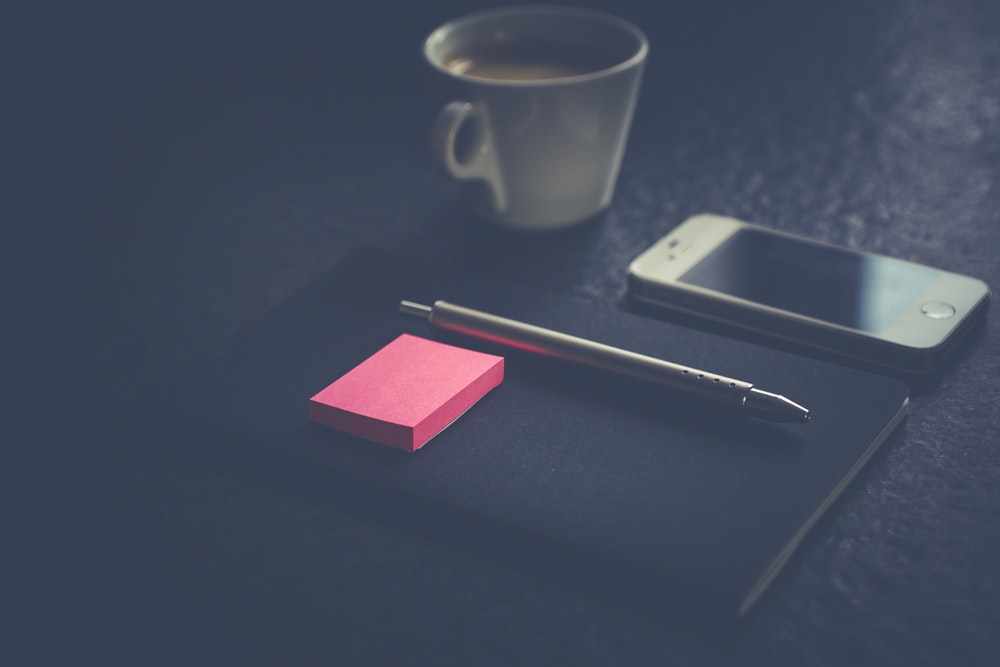
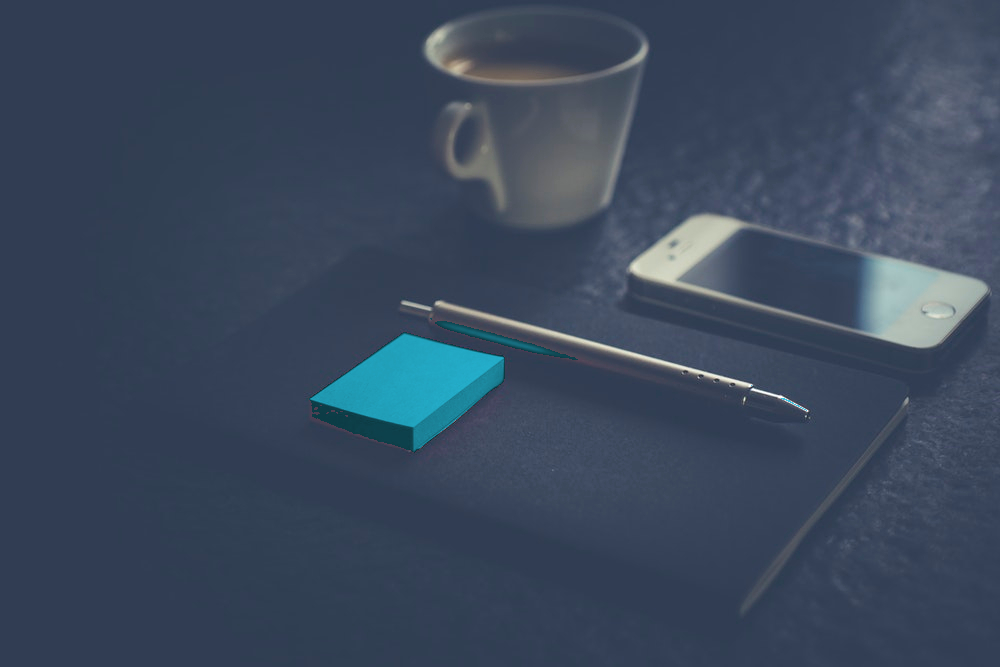
edit slider and navbar

Changed region(s): [[0.31, 0.4798, 0.558, 0.6897]]

diff --git a/public/assets/css/rtl.css b/public/assets/css/rtl.css
@@ -55,7 +55,7 @@ p{
 .home-cover {
     width: 100%;
     height: 100%;
-    background: url(../img/bg-rtl.jpg);
+    background: url(../img/slide4.jpg);
     background-position: center center;
     background-attachment: fixed;
     background-repeat: no-repeat;

diff --git a/resources/views/includes/navbar.blade.php b/resources/views/includes/navbar.blade.php
@@ -12,7 +12,7 @@
             <a class="navbar-brand" href="index-1.html">{{ config('app.name') }}</a>
         </div>
         <div class="collapse navbar-collapse" id="collapse-toggle">
-            <ul class="nav navbar-nav navbar-right leggoo-nav">
+            <ul class="nav navbar-nav navbar-right">
                 <li class="hvr-shutter-in-vertical"><a href="#HOME"><i class="fa fa-tv nav-icon"></i> الرئيسيه </a></li>
                 <li class="hvr-shutter-in-vertical"><a href="#ABOUT"><i class="fa fa-star-o nav-icon"></i> من نحن</a>
                 </li>
@@ -28,6 +28,35 @@
                 </li>
                 <li class="hvr-shutter-in-vertical"><a href="#CONTACT"><i class="fa fa-phone nav-icon"></i> اتصل بنا</a>
                 </li>
+                <!-- Authentication Links -->
+                @guest
+                    <li class="hvr-shutter-in-vertical">
+                        <a class="nav-link" href="{{ route('login') }}">{{ __('تسجيل الدخول') }}</a>
+                    </li>
+                    @if (Route::has('register'))
+                        <li class="hvr-shutter-in-vertical">
+                            <a class="nav-link" href="{{ route('register') }}">{{ __('ال تسجيل') }}</a>
+                        </li>
+                    @endif
+                @else
+                    <li class="hvr-shutter-in-vertical dropdown">
+                        <a id="navbarDropdown" class="nav-link dropdown-toggle" href="#" role="button" data-toggle="dropdown" aria-haspopup="true" aria-expanded="false" v-pre>
+                            {{ Auth::user()->name }} <span class="caret"></span>
+                        </a>
+
+                        <div class="dropdown-menu" style="text-align: right" aria-labelledby="navbarDropdown">
+                            <a class="dropdown-item" style="margin: 10%" href="{{ route('logout') }}"
+                               onclick="event.preventDefault();
+                                             document.getElementById('logout-form').submit();">
+                                {{ __('تسجيل الخروج') }}
+                            </a>
+
+                            <form id="logout-form" action="{{ route('logout') }}" method="POST" style="display: none;">
+                                @csrf
+                            </form>
+                        </div>
+                    </li>
+                @endguest
             </ul>
         </div><!-- /.navbar-collapse -->
     </div><!-- /.container-fluid -->

diff --git a/resources/views/includes/team.blade.php b/resources/views/includes/team.blade.php
@@ -16,8 +16,8 @@
                 </div>
             </div>
         </div>
-        <div class="row">
-            <div class="col-xs-12 col-sm-6 col-md-3 col-lg-3">
+        <div class="row text-center">
+            {{-- <div class="col-xs-12 col-sm-6 col-md-3 col-lg-3">
                 <div class="team-item">
                     <img src="assets/img/team/team1.jpg" alt="">
                     <div class="team-name"> كارين جونز </div>
@@ -37,8 +37,8 @@
                         </div>
                     </div>
                 </div>
-            </div>
-            <div class="col-xs-12 col-sm-6 col-md-3 col-lg-3">
+            </div> --}}
+            {{-- <div class="col-xs-12 col-sm-6 col-md-3 col-lg-3">
                 <div class="team-item">
                     <img src="assets/img/team/team2.jpg" alt="">
                     <div class="team-name"> ناتالى جونز </div>
@@ -79,7 +79,8 @@
                         </div>
                     </div>
                 </div>
-            </div>
+            </div> --}}
+            <div class="col-xs-12 col-sm-6 col-md-4 col-lg-4"></div>
             <div class="col-xs-12 col-sm-6 col-md-3 col-lg-3">
                 <div class="team-item wow fadeI">
                     <img src="assets/img/team/team4.jpg" alt="">
@@ -101,6 +102,8 @@
                     </div>
                 </div>
             </div>
+            <div class="col-xs-12 col-sm-6 col-md-4 col-lg-4"></div>
+
         </div>
     </div>
 </section><!-- END TEAM SECTION -->

diff --git a/resources/views/includes/slider.blade.php b/resources/views/includes/slider.blade.php
@@ -3,10 +3,10 @@
     <div class="home-cover-overlay">
         <div class="home-center">
             <div class="home-text leggoo-nav">
-                <p> ليجو - تصميم تطوير ابداع </p>
-                <h1> ليجو لتصميم وتطوير مواقع انترنت </h1>
-                <p><span>ابداع</span> <i class="fa fa-star-o"></i><span>تسويق</span> <i
-                        class="fa fa-star-o"></i><span>تطوير</span> </p>
+                <p>ملاحظاتي - دوّن أفكارك </p>
+                <h1> ملاحظاتي لتسجيل الملاحظات والمهام </h1>
+                <p><span>سهولة</span> <i class="fa fa-star-o"></i><span>سرعة</span> <i
+                        class="fa fa-star-o"></i><span>مجاني</span> </p>
                 <a class="btn-leggoo hvr-shutter-in-vertical" href="#ABOUT"> أبدا الان </a>
             </div>
         </div>

diff --git a/resources/views/index.blade.php b/resources/views/index.blade.php
@@ -30,6 +30,11 @@
 
   @include('includes.navbar')
   @include('includes.slider')
+  
+  @include('includes.services')
+  @include('includes.team')
+  
+  @include('includes.footer')
 
   <!--========= LINK TO TOP ================-->
   <div class="back-to-top leggoo-nav">
